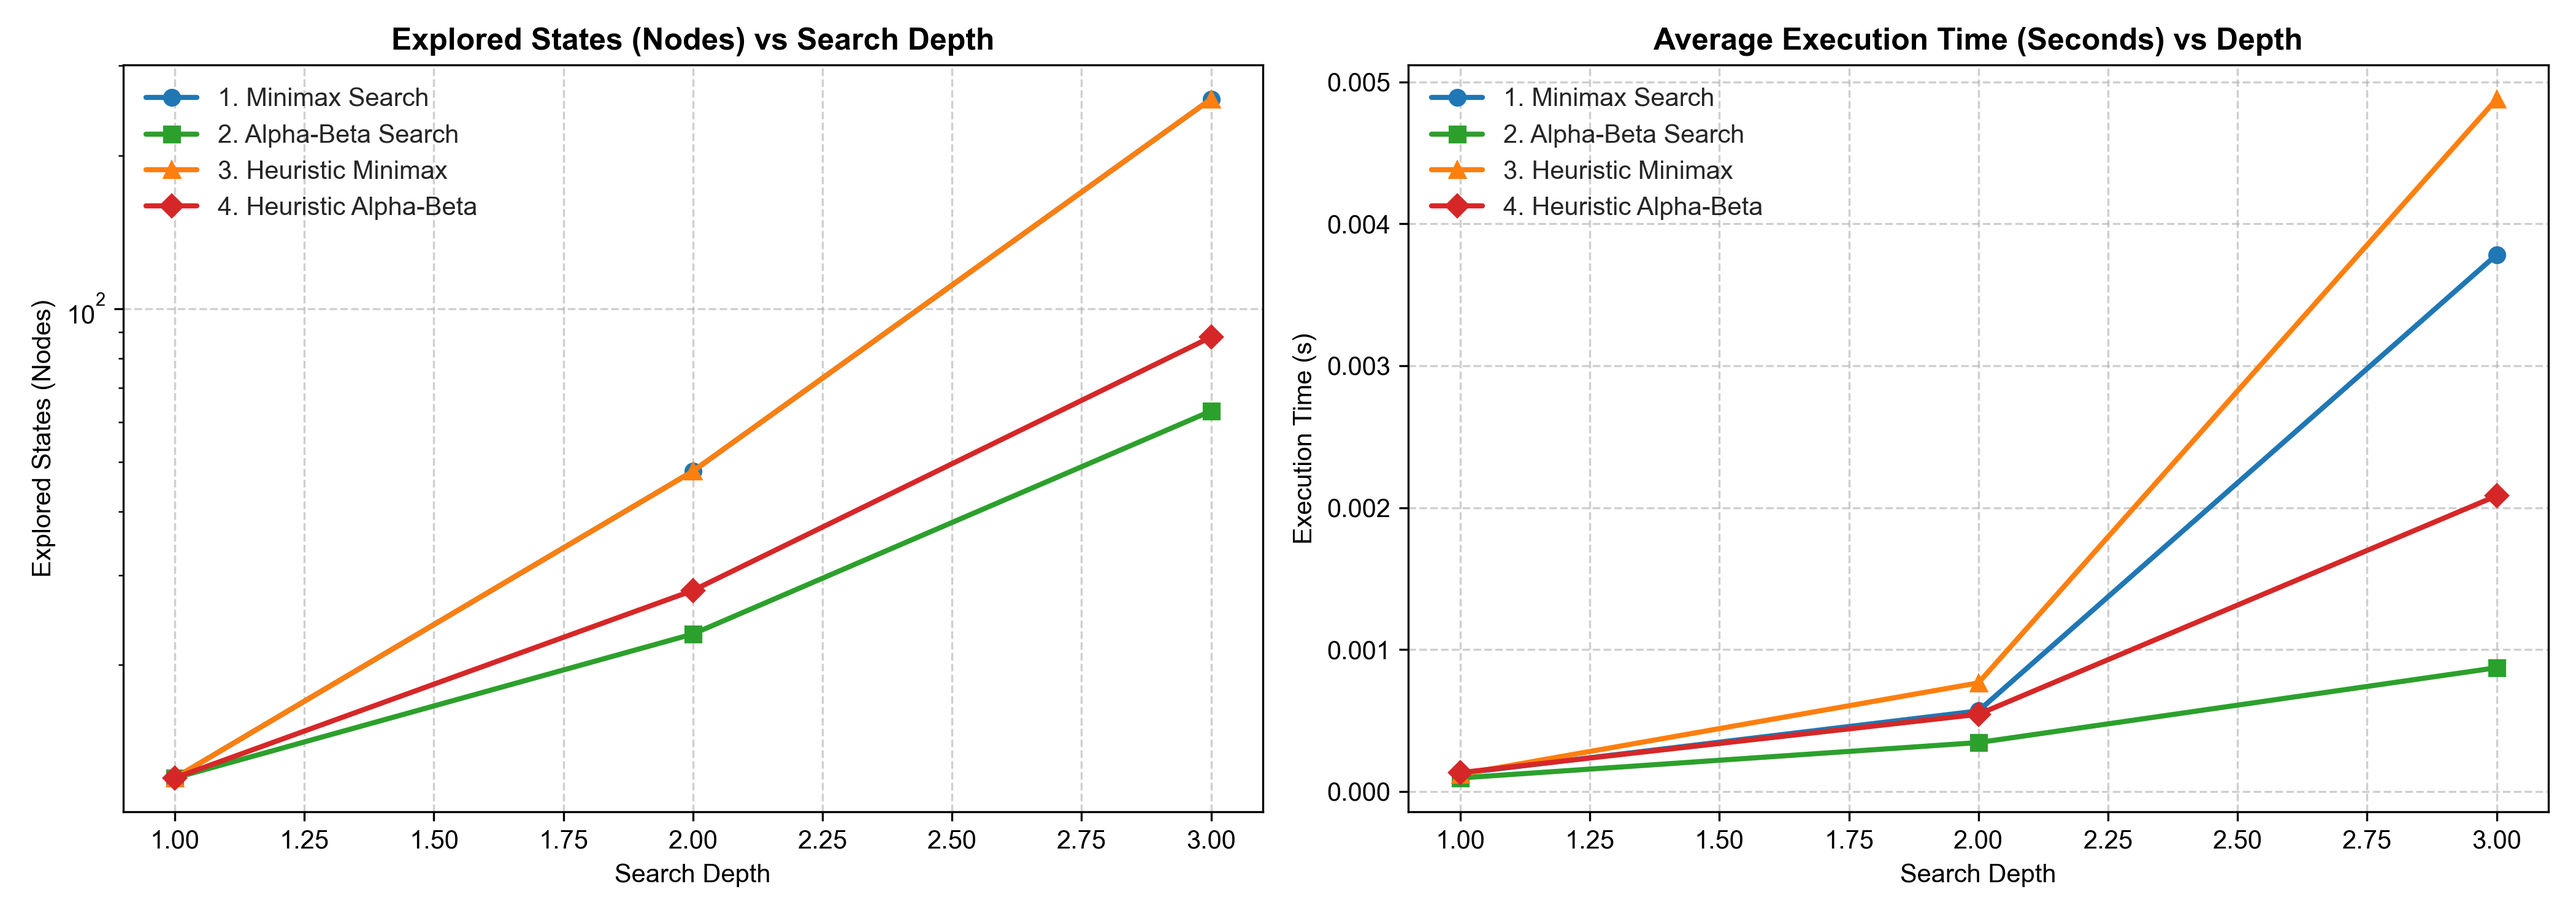
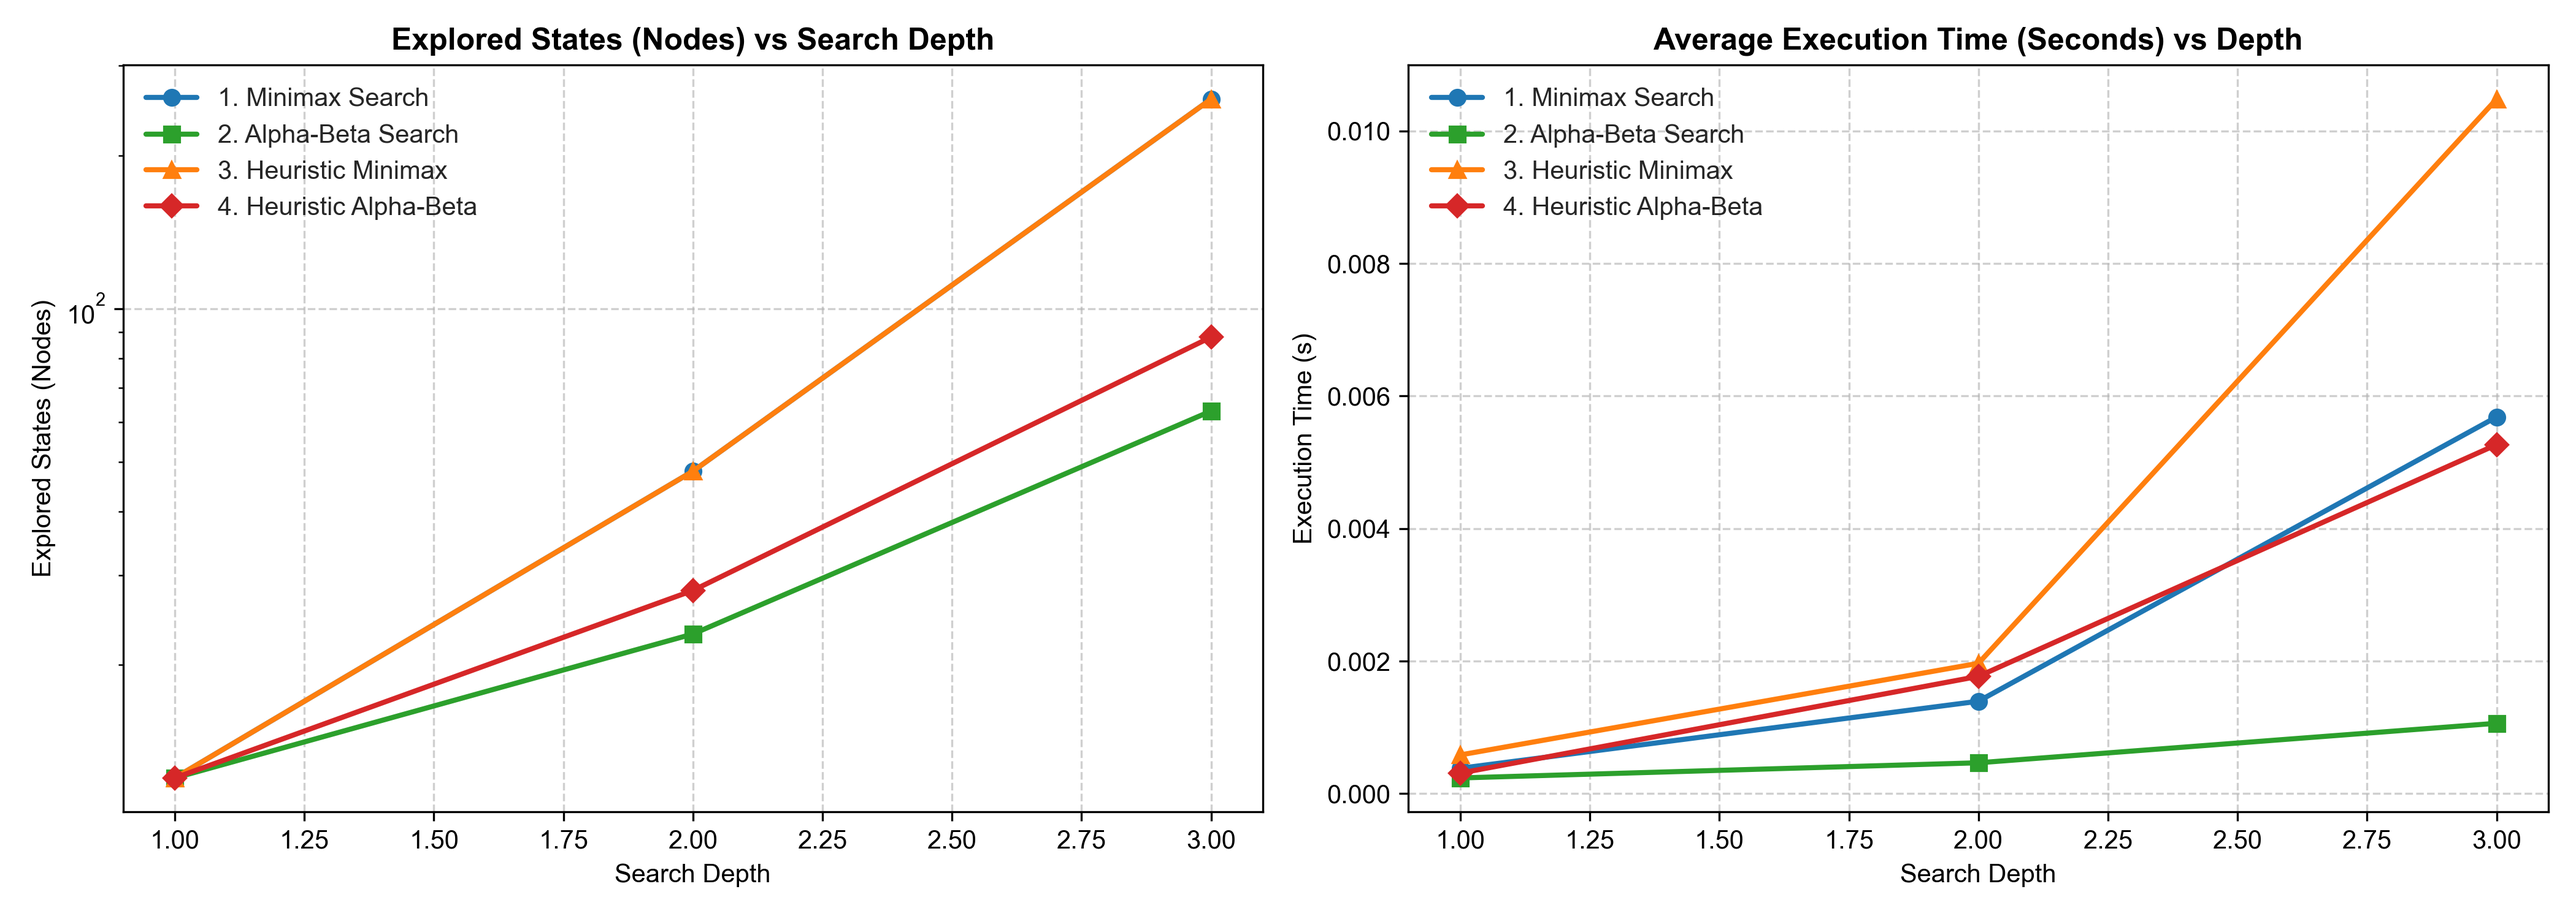
Toi uu

diff --git a/source/task2_tank/ui/pygame_ui.py b/source/task2_tank/ui/pygame_ui.py
@@ -7,7 +7,7 @@ Description:
     1. Smooth tank movement & cell-by-cell bullet flight animations (3 cells/cycle rule).
     2. Start-on-demand workflow: Match waits in READY state until the user clicks START.
     3. Clean, easy-to-read Technical Parameters & Telemetry HUD without visual clutter.
-    4. Optimized 2-Human PvP mode with separate keyboard zones (P0: WASD+F/SPACE, P1: Arrows+ENTER)
+    4. Optimized 2-Human PvP mode with separate keyboard zones (P0: WASD+F/SPACE, P1: Arrows+[/] fire, [.] stay)
        and independent input queues so simultaneous keypresses are never lost or cross-triggered.
     5. Interactive On-Screen Control Pad and dynamic algorithm/depth switcher.
 """
@@ -394,12 +394,14 @@ class TankGameGUI:
         """
         Routes keyboard actions cleanly for 1-Human vs AI or 2-Human PvP:
         - In 2-Human PvP (p0_is_human and p1_is_human):
-          * Player 0 (Blue) uses Left Keyboard: W/A/S/D to move, SPACE/F to Fire, Q/E to Stay.
-          * Player 1 (Red) uses Right Keyboard: Arrow Keys to move, ENTER/K/SLASH to Fire, RSHIFT/M to Stay.
+          * Player 0 (Blue) uses Left Keyboard: W/A/S/D to move, SPACE/F to Fire, Q/X to Stay.
+          * Player 1 (Red) uses Right Keyboard: Arrow Keys to move, [/] (or Numpad 0 / Right-Ctrl) to Fire,
+            [.] (or Numpad .) to Stay. These keys sit directly above/next to the arrow cluster on both
+            full-size and laptop keyboards, so the right hand never has to leave the arrows.
           * Each player's input goes into their own queue (human_queues[0] or human_queues[1]) so simultaneous
             inputs never collide or get lost!
         - In 1-Human vs AI:
-          * The human player can use EITHER WASD or Arrow keys, SPACE/F/ENTER to Fire, Q/X to Stay.
+          * The human player can use EITHER WASD or Arrow keys, SPACE/F or [/] to Fire, Q/X or [.] to Stay.
         """
         both_humans = p0_is_human and p1_is_human
 
@@ -415,19 +417,17 @@ class TankGameGUI:
             pygame.K_x: Action.STAY,
         }
 
-        # Player 1 Dedicated Keyset (Right side of keyboard)
+        # Player 1 Dedicated Keyset (Right side of keyboard, clustered around the arrow keys)
         p1_map = {
             pygame.K_UP: Action.MOVE_UP,
             pygame.K_DOWN: Action.MOVE_DOWN,
             pygame.K_LEFT: Action.MOVE_LEFT,
             pygame.K_RIGHT: Action.MOVE_RIGHT,
-            pygame.K_RETURN: Action.FIRE,
-            pygame.K_KP_ENTER: Action.FIRE,
-            pygame.K_k: Action.FIRE,
-            pygame.K_SLASH: Action.FIRE,
-            pygame.K_RSHIFT: Action.STAY,
-            pygame.K_m: Action.STAY,
-            pygame.K_PERIOD: Action.STAY,
+            pygame.K_SLASH: Action.FIRE,       # [/]  - directly above the arrow cluster
+            pygame.K_KP0: Action.FIRE,         # [Numpad 0] - for full-size keyboards
+            pygame.K_RCTRL: Action.FIRE,       # [Right Ctrl] - next to LEFT arrow on laptops
+            pygame.K_PERIOD: Action.STAY,      # [.]  - right next to [/]
+            pygame.K_KP_PERIOD: Action.STAY,   # [Numpad .]
         }
 
         if both_humans:
@@ -1737,10 +1737,10 @@ class TankGameGUI:
                     k_desc = "Move: [W][A][S][D]   |   Fire: [F] or [SPACE]   |   Stay: [Q]"
                 else:
                     k_title = "PLAYER 1 KEYS (RIGHT KEYBOARD):"
-                    k_desc = "Move: [Arrow Keys]   |   Fire: [ENTER] or [K]   |   Stay: [R-SHIFT]"
+                    k_desc = "Move: [Arrow Keys]   |   Fire: [ / ] or [Num 0]   |   Stay: [ . ]"
             else:
                 k_title = f"PLAYER {pid} HUMAN CONTROLS:"
-                k_desc = "Move: [WASD] / [Arrows]  |  Fire: [SPACE] / [ENTER]  |  Stay: [Q]"
+                k_desc = "Move: [WASD] / [Arrows]  |  Fire: [SPACE] / [ / ]  |  Stay: [Q] / [ . ]"
 
             kt_surf = self.font_metric_lbl.render(k_title, True, self.COLOR_GOLD)
             kd_surf = self.font_bold.render(k_desc, True, self.COLOR_TEXT)
@@ -1816,7 +1816,7 @@ class TankGameGUI:
         self.dpad_buttons.append({"action": Action.STAY, "rect": stay_rect})
 
         if both_humans:
-            hint_str = "2-Human PvP: P0 uses [WASD + F/SPACE]  |  P1 uses [Arrows + ENTER]"
+            hint_str = "2-Human PvP: P0 uses [WASD + F/SPACE]  |  P1 uses [Arrows + / .]"
         else:
             hint_str = "Shortcuts: [P] Pause  |  [U] Undo  |  [R] Reset  |  [M] Change Map"
         hint_surf = self.font_small.render(hint_str, True, self.COLOR_TEXT_DIM)

diff --git a/source/task2_tank/main.py b/source/task2_tank/main.py
@@ -84,7 +84,7 @@ def run_gui_game(agent0, agent1, max_cycles: int = 50, map_name: str = "01"):
     print(f"\n=== MATCH READY: {agent0.name} (P0) vs {agent1.name} (P1) | Map: {display_name.upper()} ===")
     print("Click [START] button (or press SPACE/P) in the GUI window to begin the match!")
     print("Controls: P/SPACE = Start/Pause | S = Step +1 | U/Z = Undo -1 | R = Reset | M = Next Map | 1..4 = Speed")
-    print("2-Human PvP Controls: P0 uses [WASD + F/SPACE] | P1 uses [Arrows + ENTER/K] | or click On-Screen D-Pad!")
+    print("2-Human PvP Controls: P0 uses [WASD + F/SPACE fire, Q stay] | P1 uses [Arrows + / fire, . stay] | or click On-Screen D-Pad!")
 
     import time
     state_history = [state.clone()]

diff --git a/source/task2_tank/README.md b/source/task2_tank/README.md
@@ -135,13 +135,17 @@ python source/task2_tank/main.py --p0 human --load_external source/task2_tank/ag
 | `ESC` | **Exit** | Quit application |
 
 ### B. Human Player Controls
-- **Keyboard:**
-  - `W` / `Up Arrow`: Move Up (`MOVE_UP`)
-  - `S` / `Down Arrow`: Move Down (`MOVE_DOWN`)
-  - `A` / `Left Arrow`: Move Left (`MOVE_LEFT`)
-  - `D` / `Right Arrow`: Move Right (`MOVE_RIGHT`)
-  - `SPACE` / `F`: Fire Cannon (`FIRE`)
-  - `X` / `C`: Stay in Place (`STAY`)
+- **Keyboard (1 Human vs AI):** use either key zone below.
+- **Keyboard (2-Human PvP):** each player has a dedicated zone so simultaneous presses never collide.
+
+| Action | Player 0 (Blue) – Left hand | Player 1 (Red) – Right hand |
+|:---|:---:|:---:|
+| Move Up / Down / Left / Right | `W` / `S` / `A` / `D` | `↑` / `↓` / `←` / `→` |
+| Fire Cannon (`FIRE`) | `F` or `SPACE` | `/` (alt: `Numpad 0`, `Right Ctrl`) |
+| Stay in Place (`STAY`) | `Q` or `X` | `.` (alt: `Numpad .`) |
+
+> Player 1's `/` and `.` keys sit directly above the arrow cluster on both full-size and laptop keyboards, so the right hand never leaves the arrows.
+
 - **Mouse:** Click the interactive on-screen **D-Pad (`▲`, `▼`, `◀`, `▶`, `💥 FIRE`, `⏸ STAY`)** on the HUD!
 
 ### C. Live In-Game Algorithm & Depth Switcher
